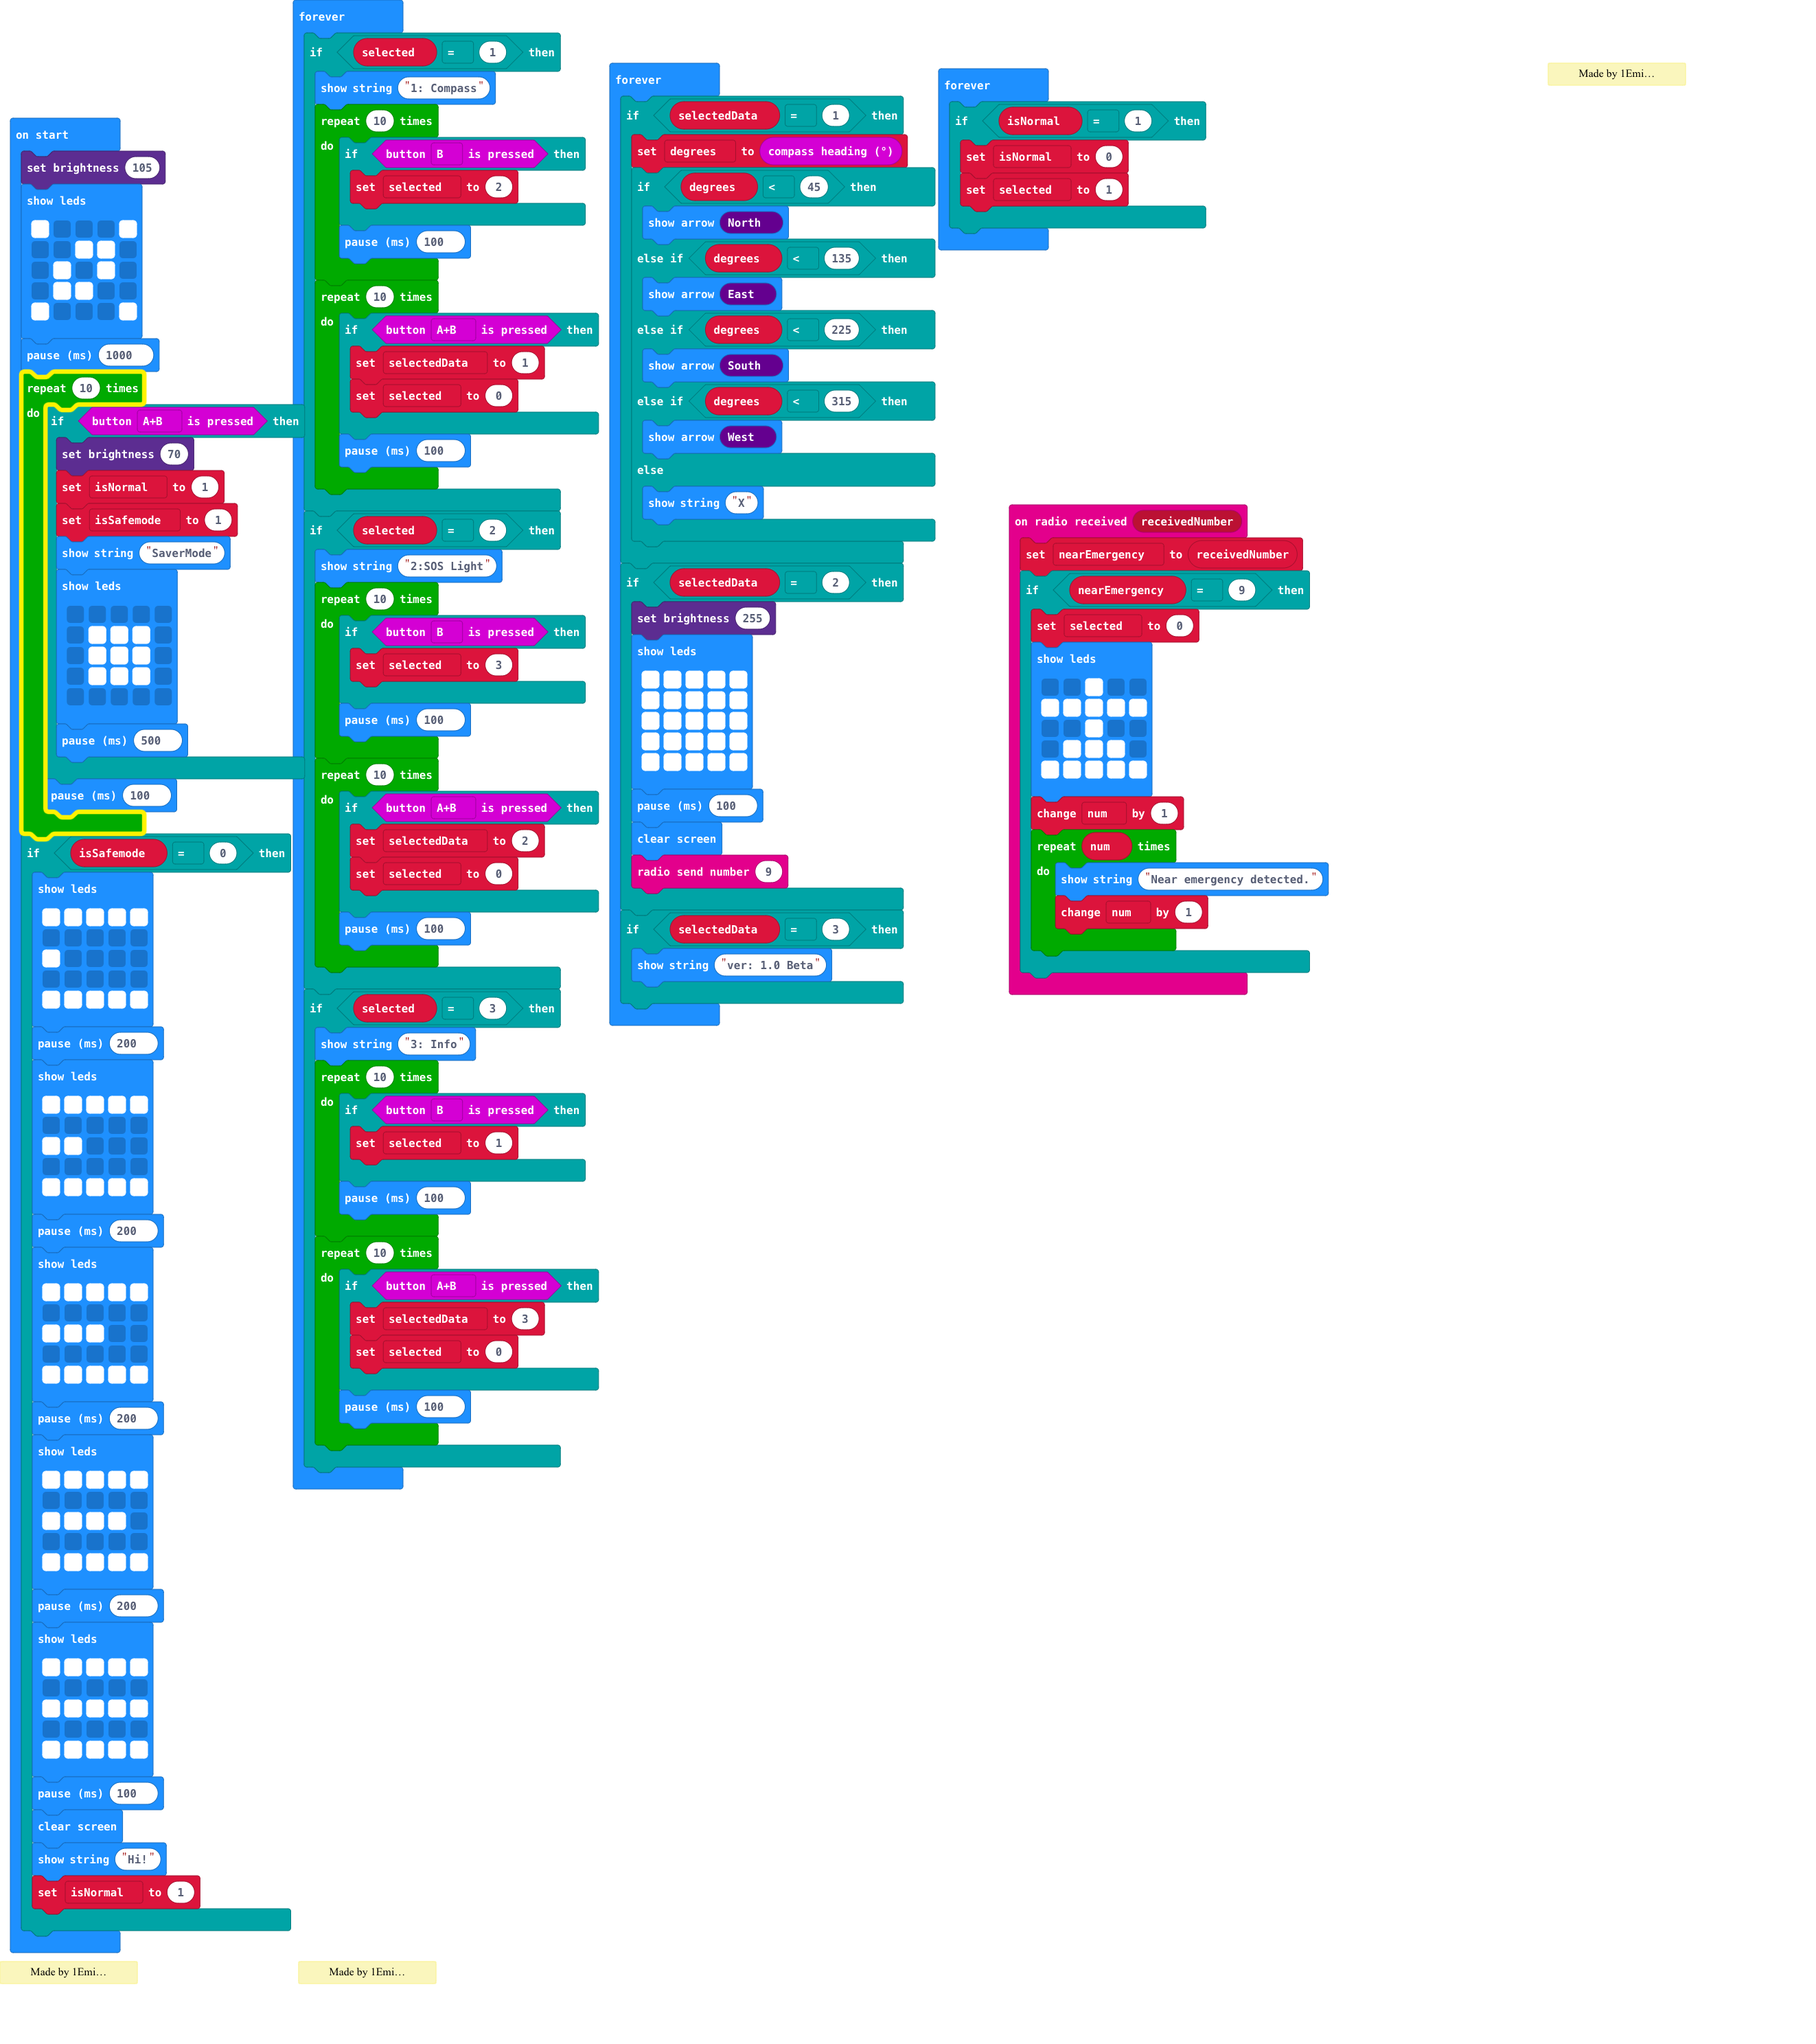
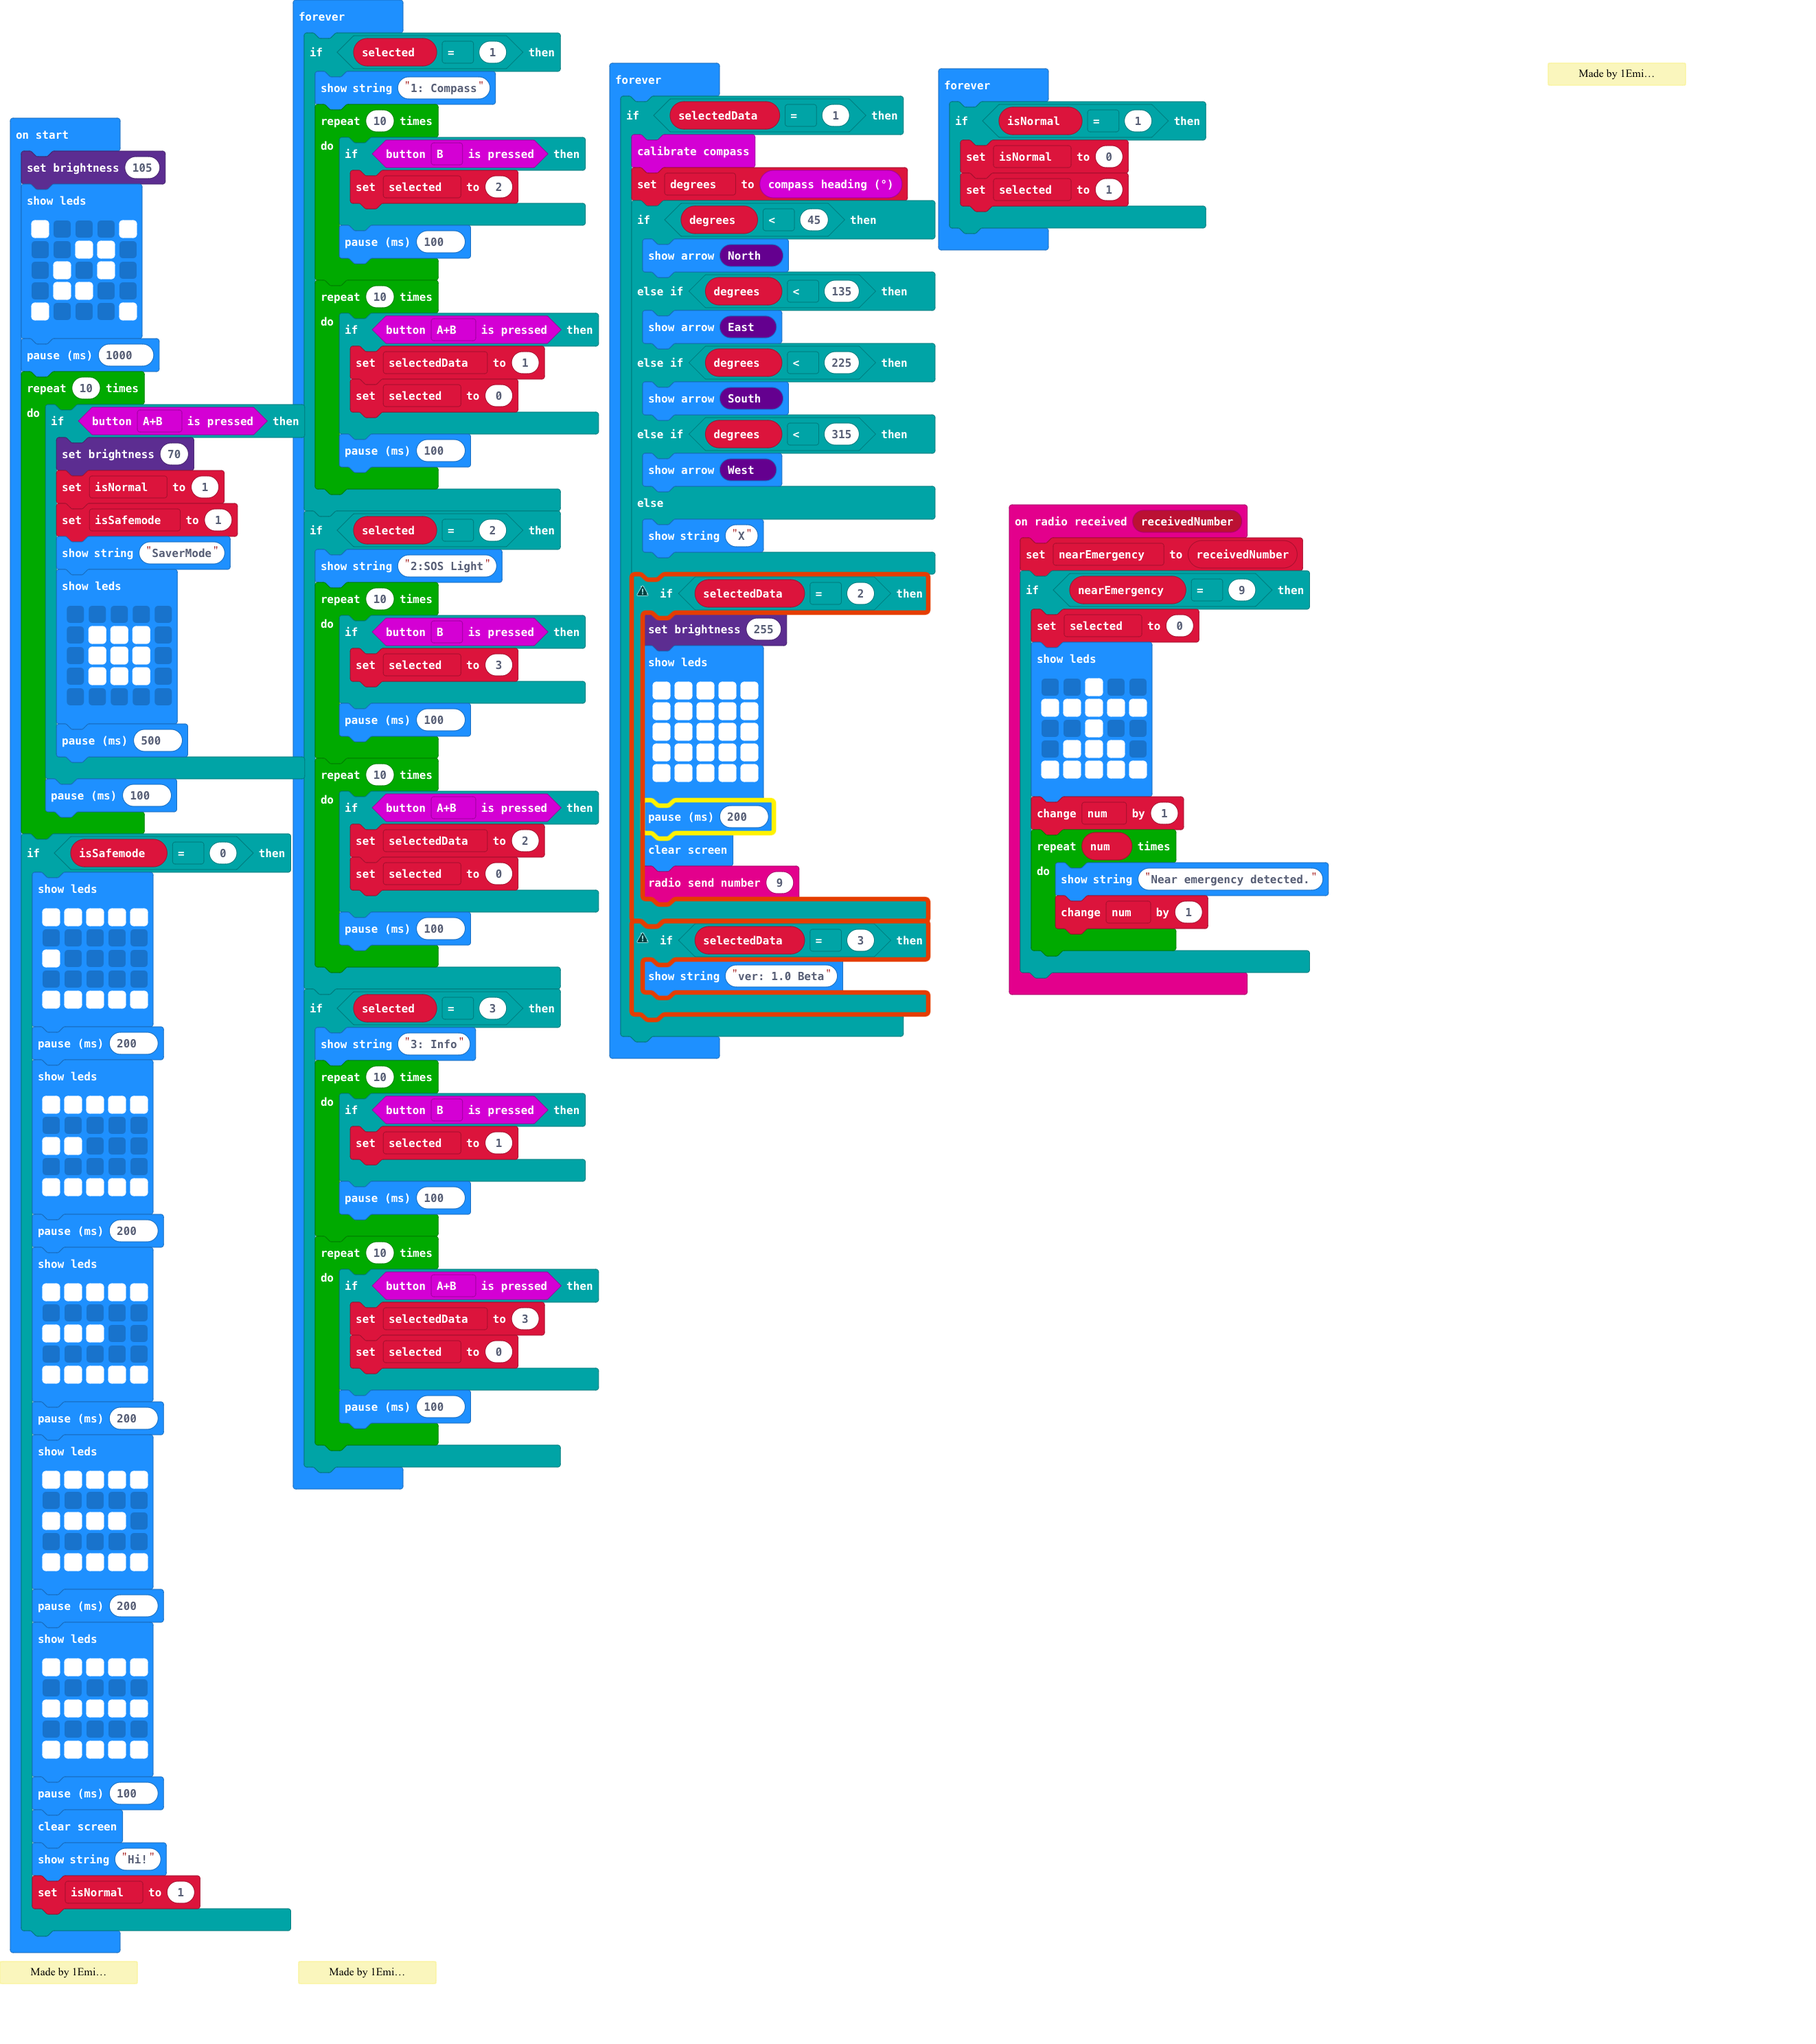
Massive Fixes

Changed region(s): [[0.341, 0.0625, 0.527, 0.5312], [0.0, 0.1875, 0.031, 0.4062]]

diff --git a/main.ts b/main.ts
@@ -161,6 +161,7 @@ basic.forever(function () {
 })
 basic.forever(function () {
     if (selectedData == 1) {
+        input.calibrateCompass()
         degrees = input.compassHeading()
         if (degrees < 45) {
             basic.showArrow(ArrowNames.North)
@@ -173,22 +174,22 @@ basic.forever(function () {
         } else {
             basic.showString("X")
         }
-    }
-    if (selectedData == 2) {
-        led.setBrightness(255)
-        basic.showLeds(`
-            # # # # #
-            # # # # #
-            # # # # #
-            # # # # #
-            # # # # #
-            `)
-        basic.pause(100)
-        basic.clearScreen()
-        radio.sendNumber(9)
-    }
-    if (selectedData == 3) {
-        basic.showString("ver: 1.0 Beta")
+        if (selectedData == 2) {
+            led.setBrightness(255)
+            basic.showLeds(`
+                # # # # #
+                # # # # #
+                # # # # #
+                # # # # #
+                # # # # #
+                `)
+            basic.pause(200)
+            basic.clearScreen()
+            radio.sendNumber(9)
+        }
+        if (selectedData == 3) {
+            basic.showString("ver: 1.0 Beta")
+        }
     }
 })
 basic.forever(function () {
